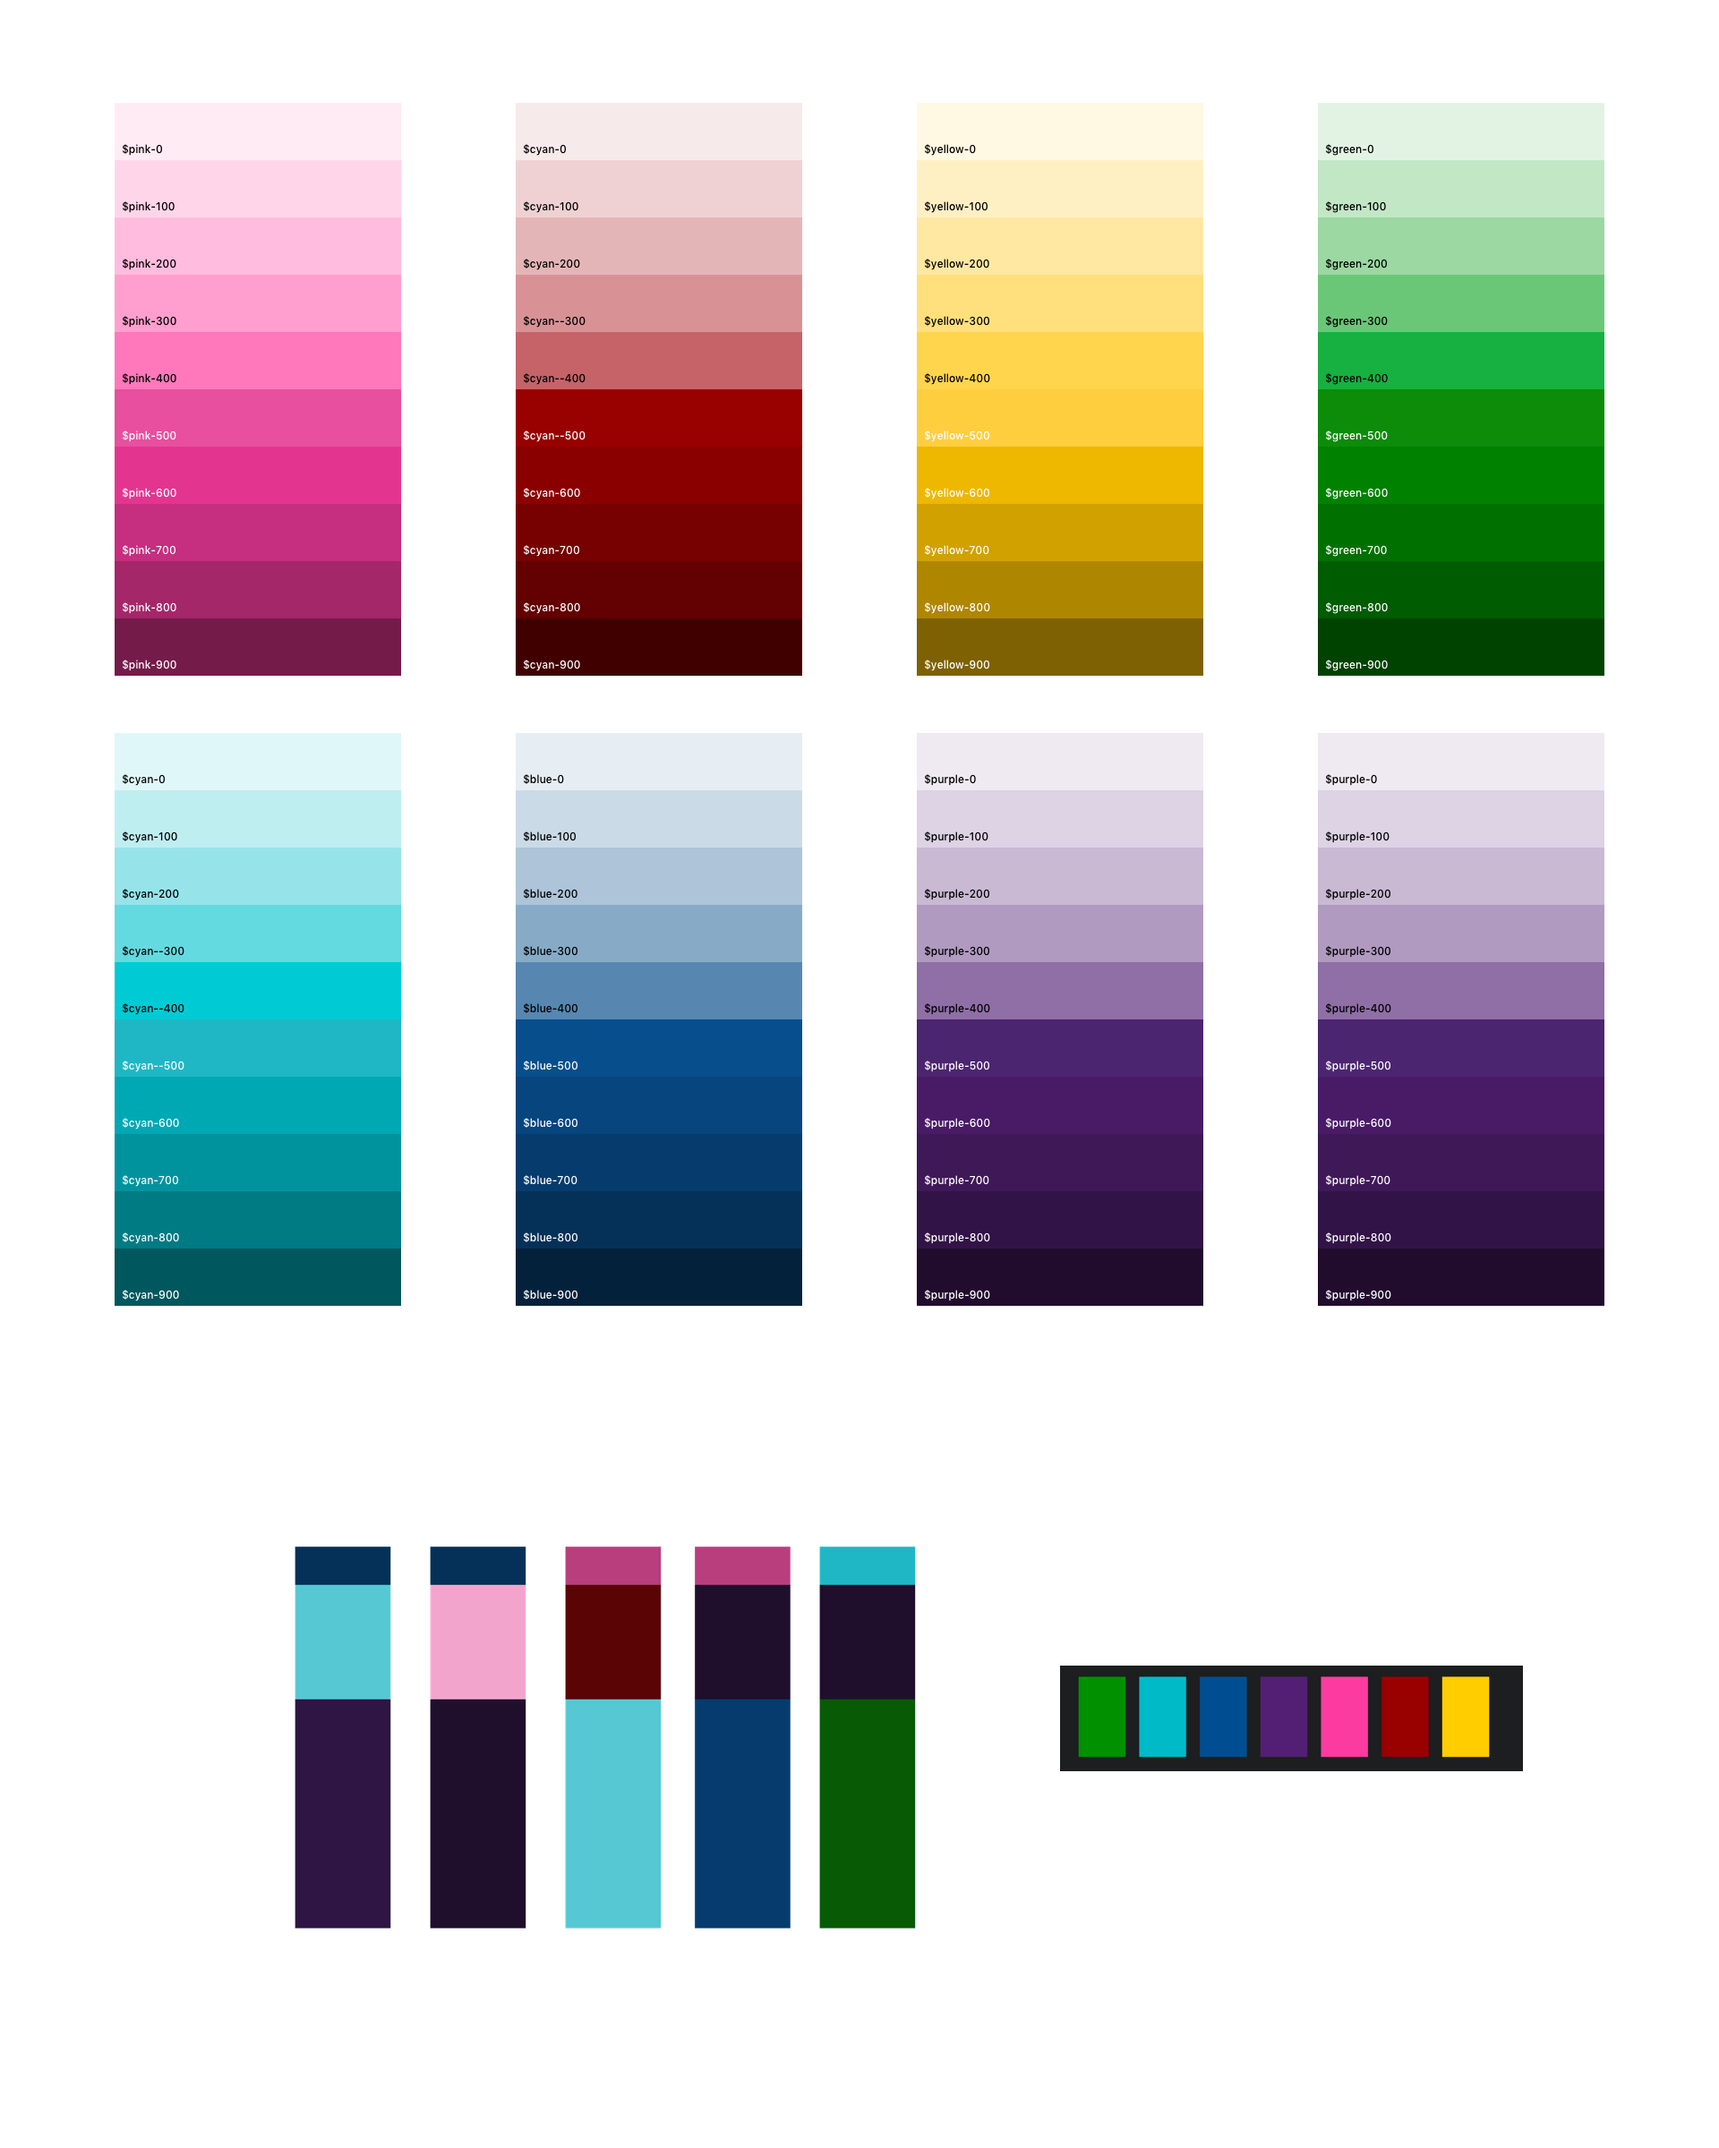
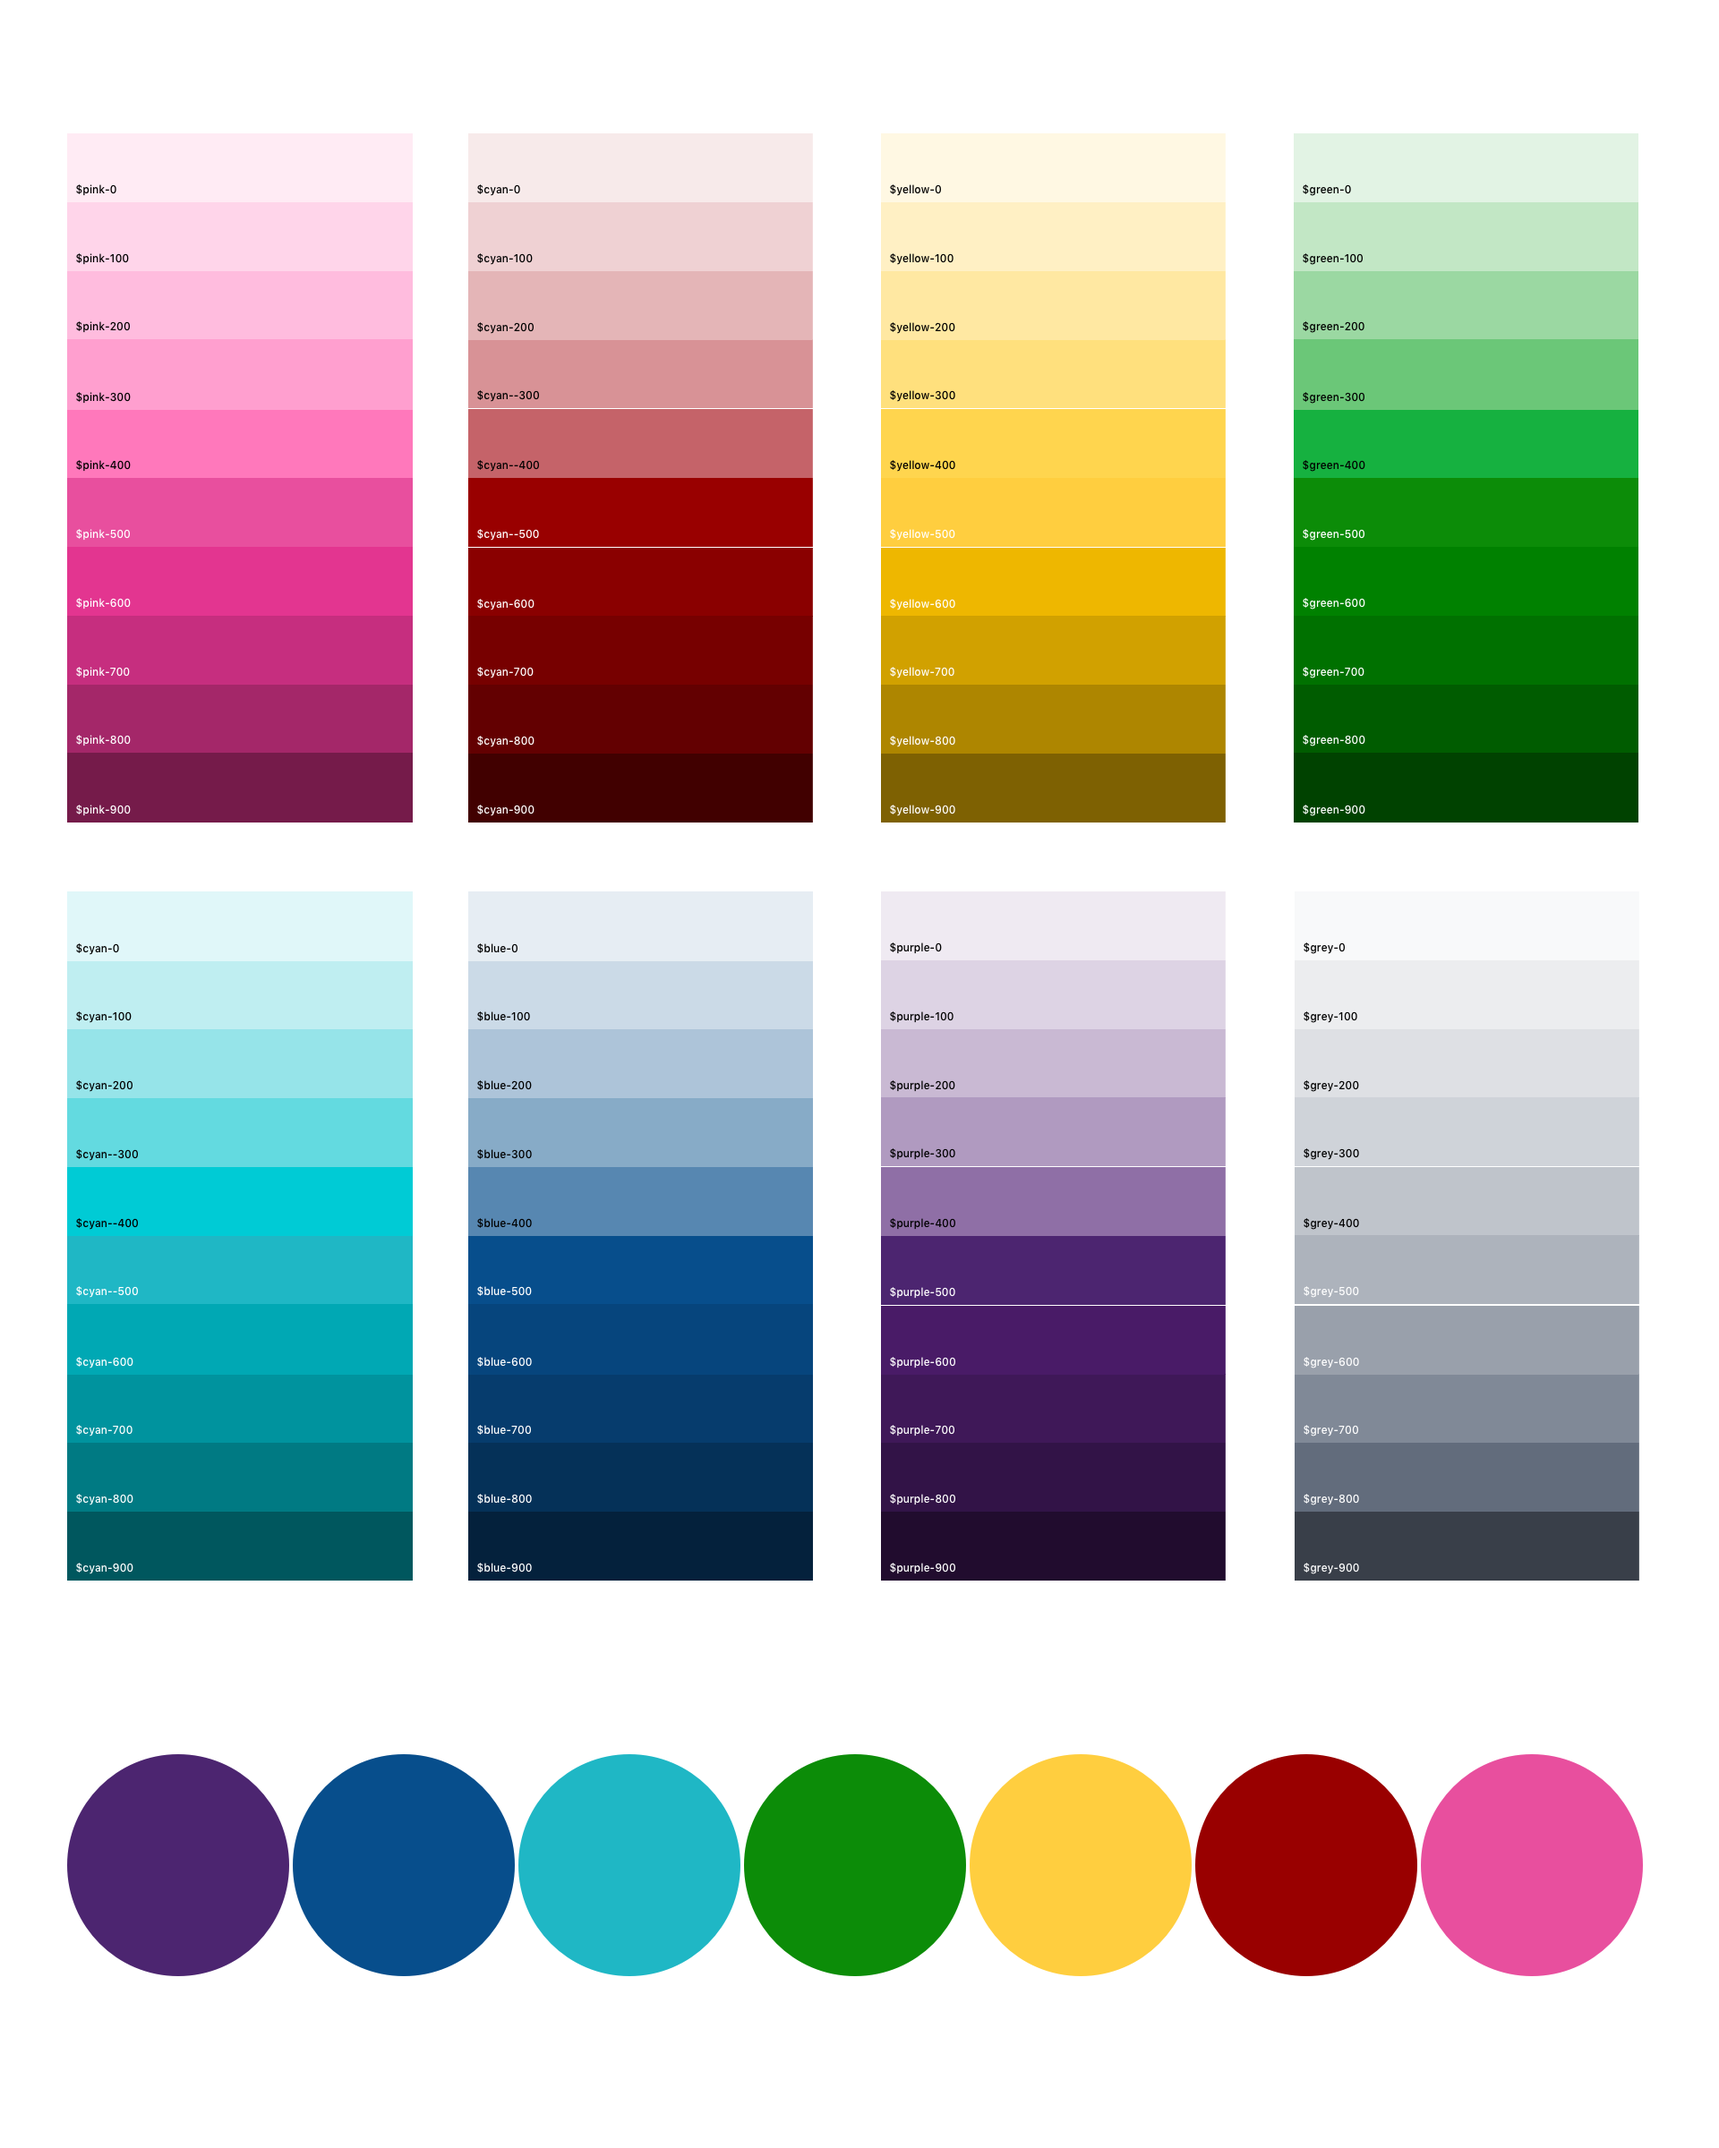
fix: Improve colour section for Nautilus.

diff --git a/_projects/nautilus.md b/_projects/nautilus.md
@@ -57,11 +57,11 @@ repo: https://nautilus.octopusthink.com/
 {% include portfolio-panel.md
   metadata="Define a colour palette"
   heading="Now for something different: colours that aren't pink"
-  content="The aim of Nautilus' colour palette is to provide a useful array of colours that allow for a wide range of different palettes and moods, but still function harmoniously when paired together.
+  content="The aim of Nautilus' colour palette is to allow for a wide range of different palettes and moods, whilst still functioning harmoniously together.
 
-  This was a pretty lengthy process, and involved a lot of very technical reading about colour! I started by working with a series of different colour pickers, but found none of them really met my needs fully, so I ended up building my own tool [reference when available] to generate colour steps in a predictable way. (Still in progress!)
+  I started the palette by working with a series of different colour pickers, but found none of them really met my needs fully. I'm currently building a tool to programmatically generate colour ramps in a consistent way.
 
-  The system provides a palette of seven colours (red, pink, purple, blue, cyan, green, yellow), each with 10 tints and shades, balanced against a greyscale gradient to ensure predictable numerical contrast for accessibility purposes. It also provides a neutral palette of greys to match. Components also check for adequete colour contrast and warn if elements don't have sufficient contrast against their backgrounds."
+  The system provides a palette of seven hues, each with 10 tints and shades, balanced against a greyscale gradient to ensure predictable numerical contrast for accessibility purposes. It also provides a neutral palette of greys to match. Components check for adequate colour contrast to ensure accessibility."
   image="/assets/img/nautilus/colour.png"
   alt="Post on make.wordpress.org inviting community to participate as researchers"
 %}
